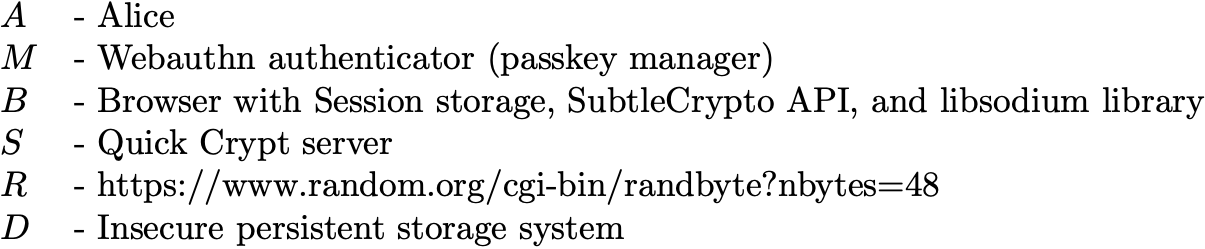
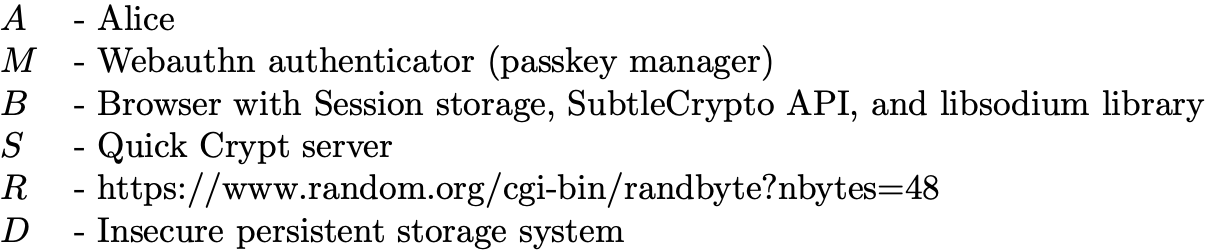
image width changed

diff --git a/src/app/help/protocol/protocol4.component.html b/src/app/help/protocol/protocol4.component.html
@@ -27,7 +27,7 @@
     </p>
 
     <h2>Agents</h2>
-    <img src="/assets/agents.png" width="475" height="126" />
+    <img src="/assets/agents.png" width="603" height="126" />
     <h2>Browser and Libsodium Functions</h2>
     <img src="/assets/functions.png" width="600" height="190" />
     <h2>Cipher Variables</h2>
